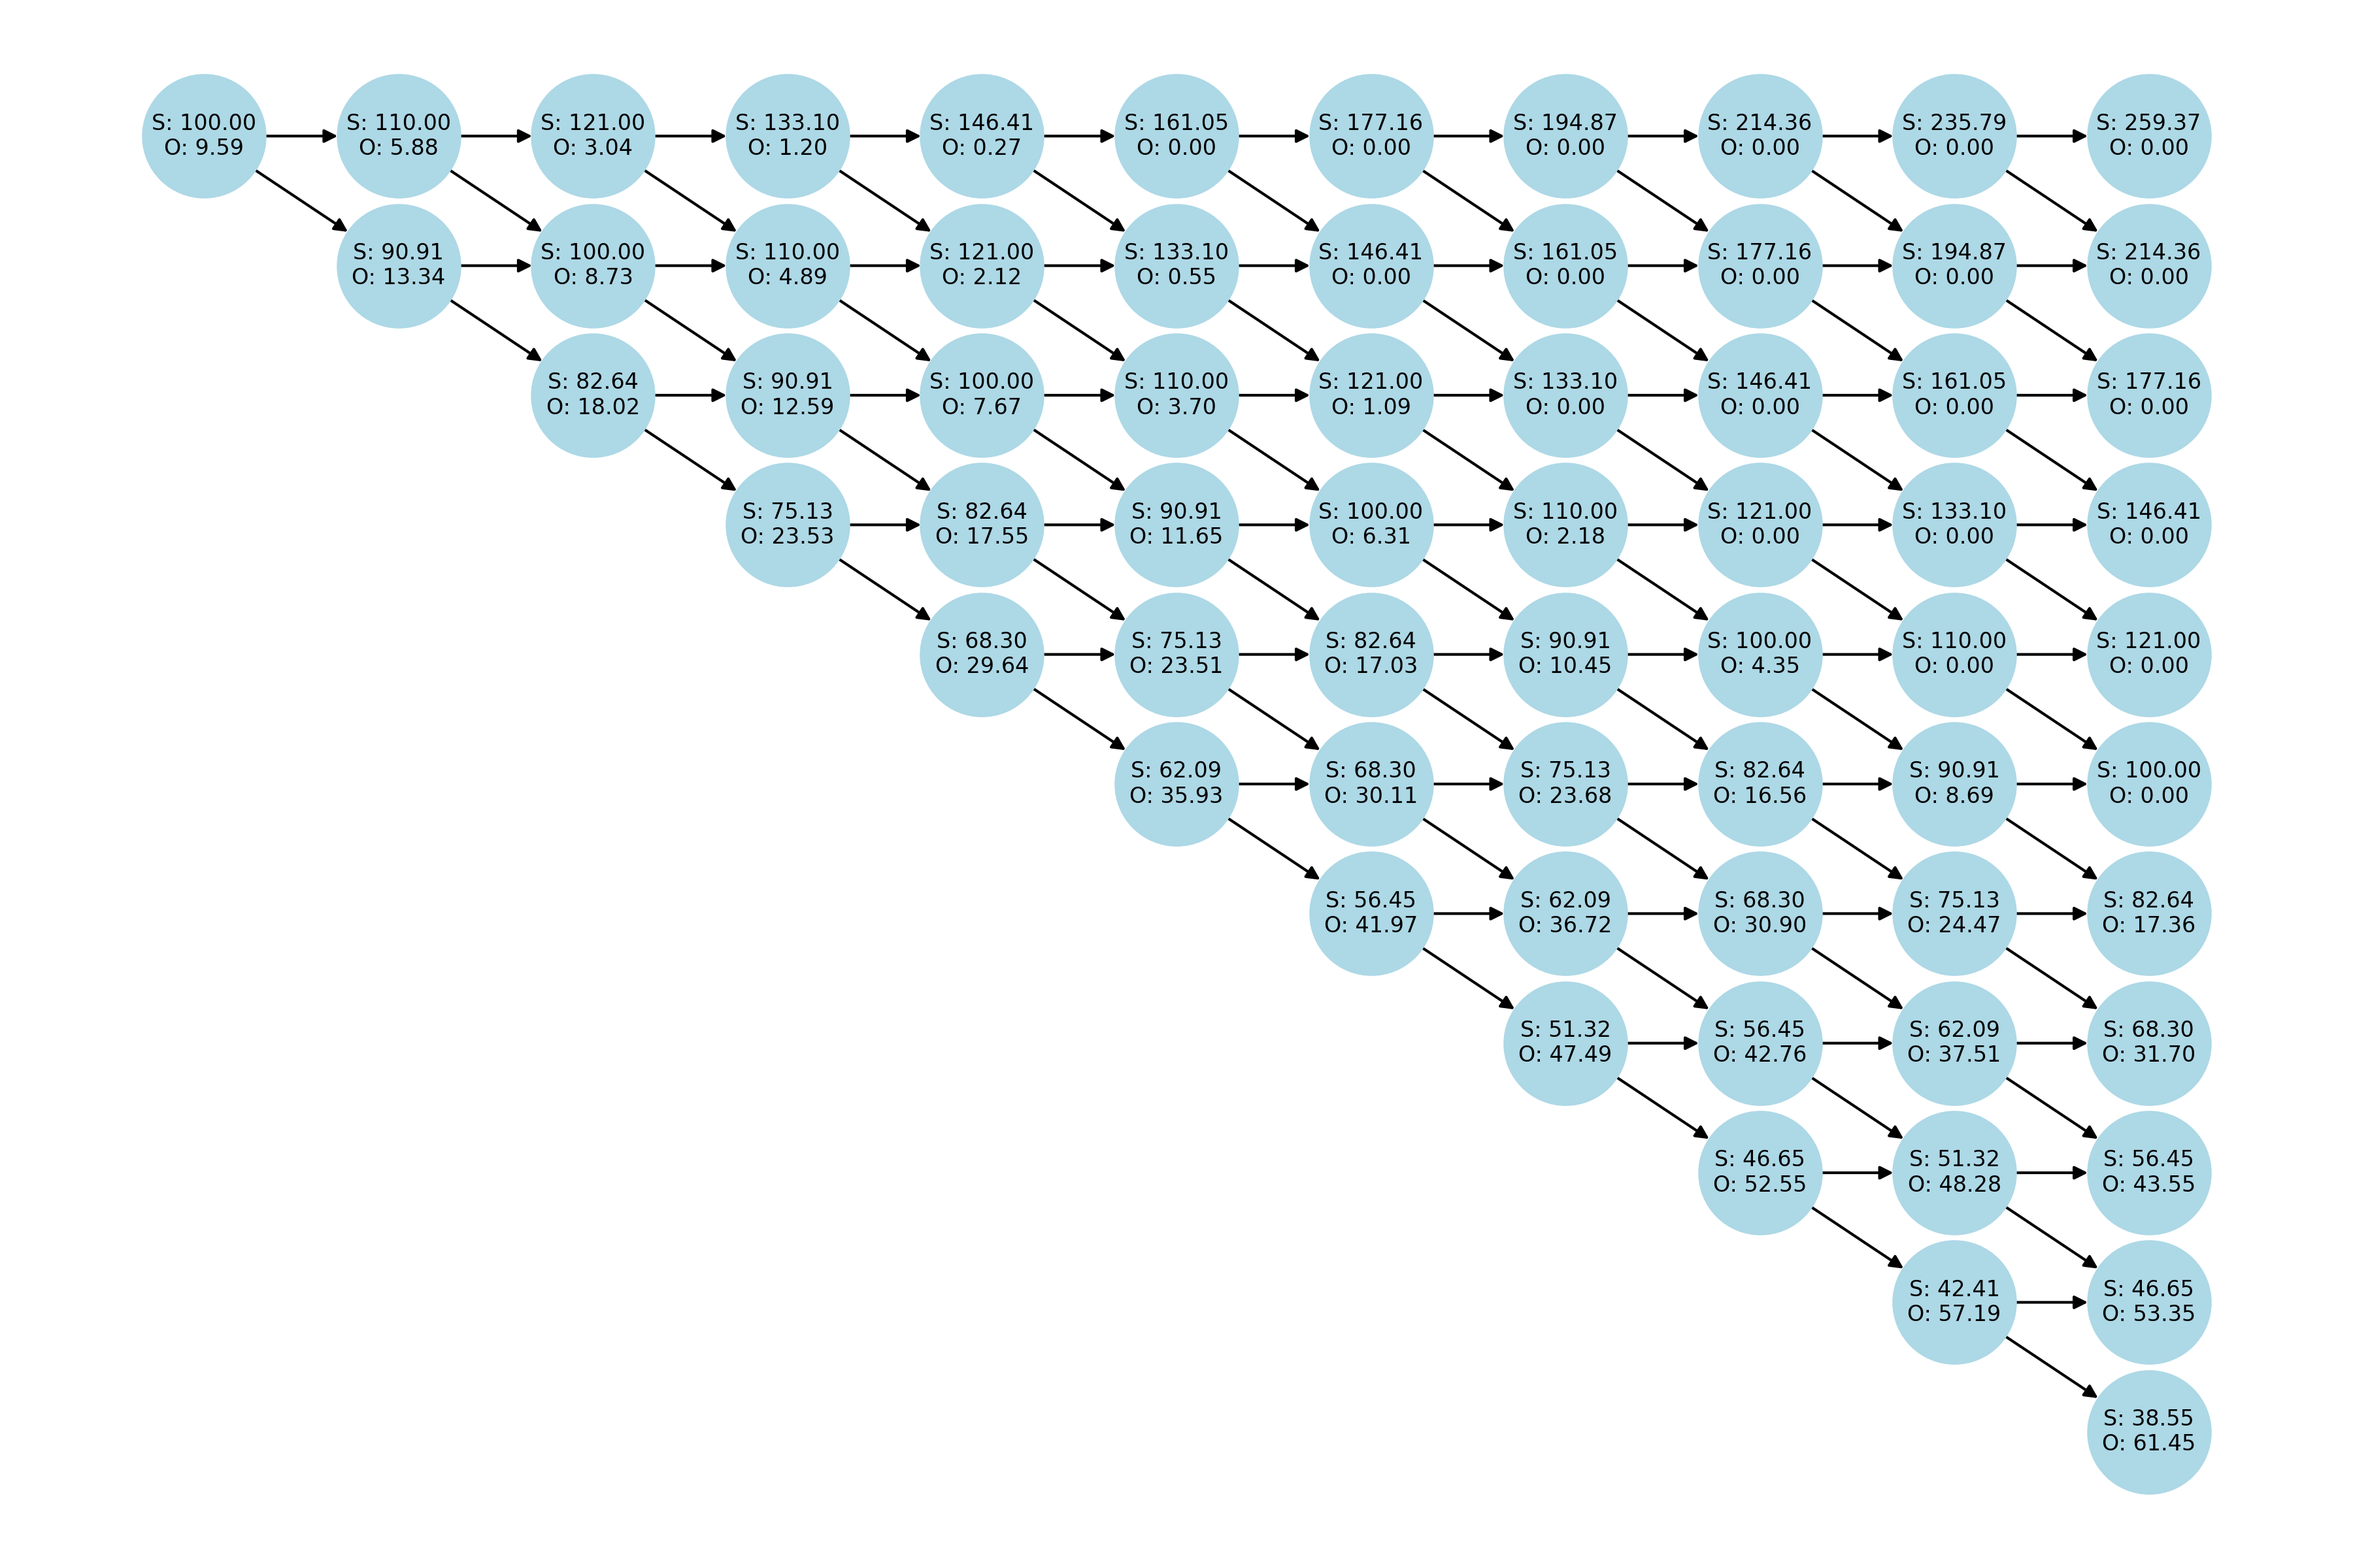
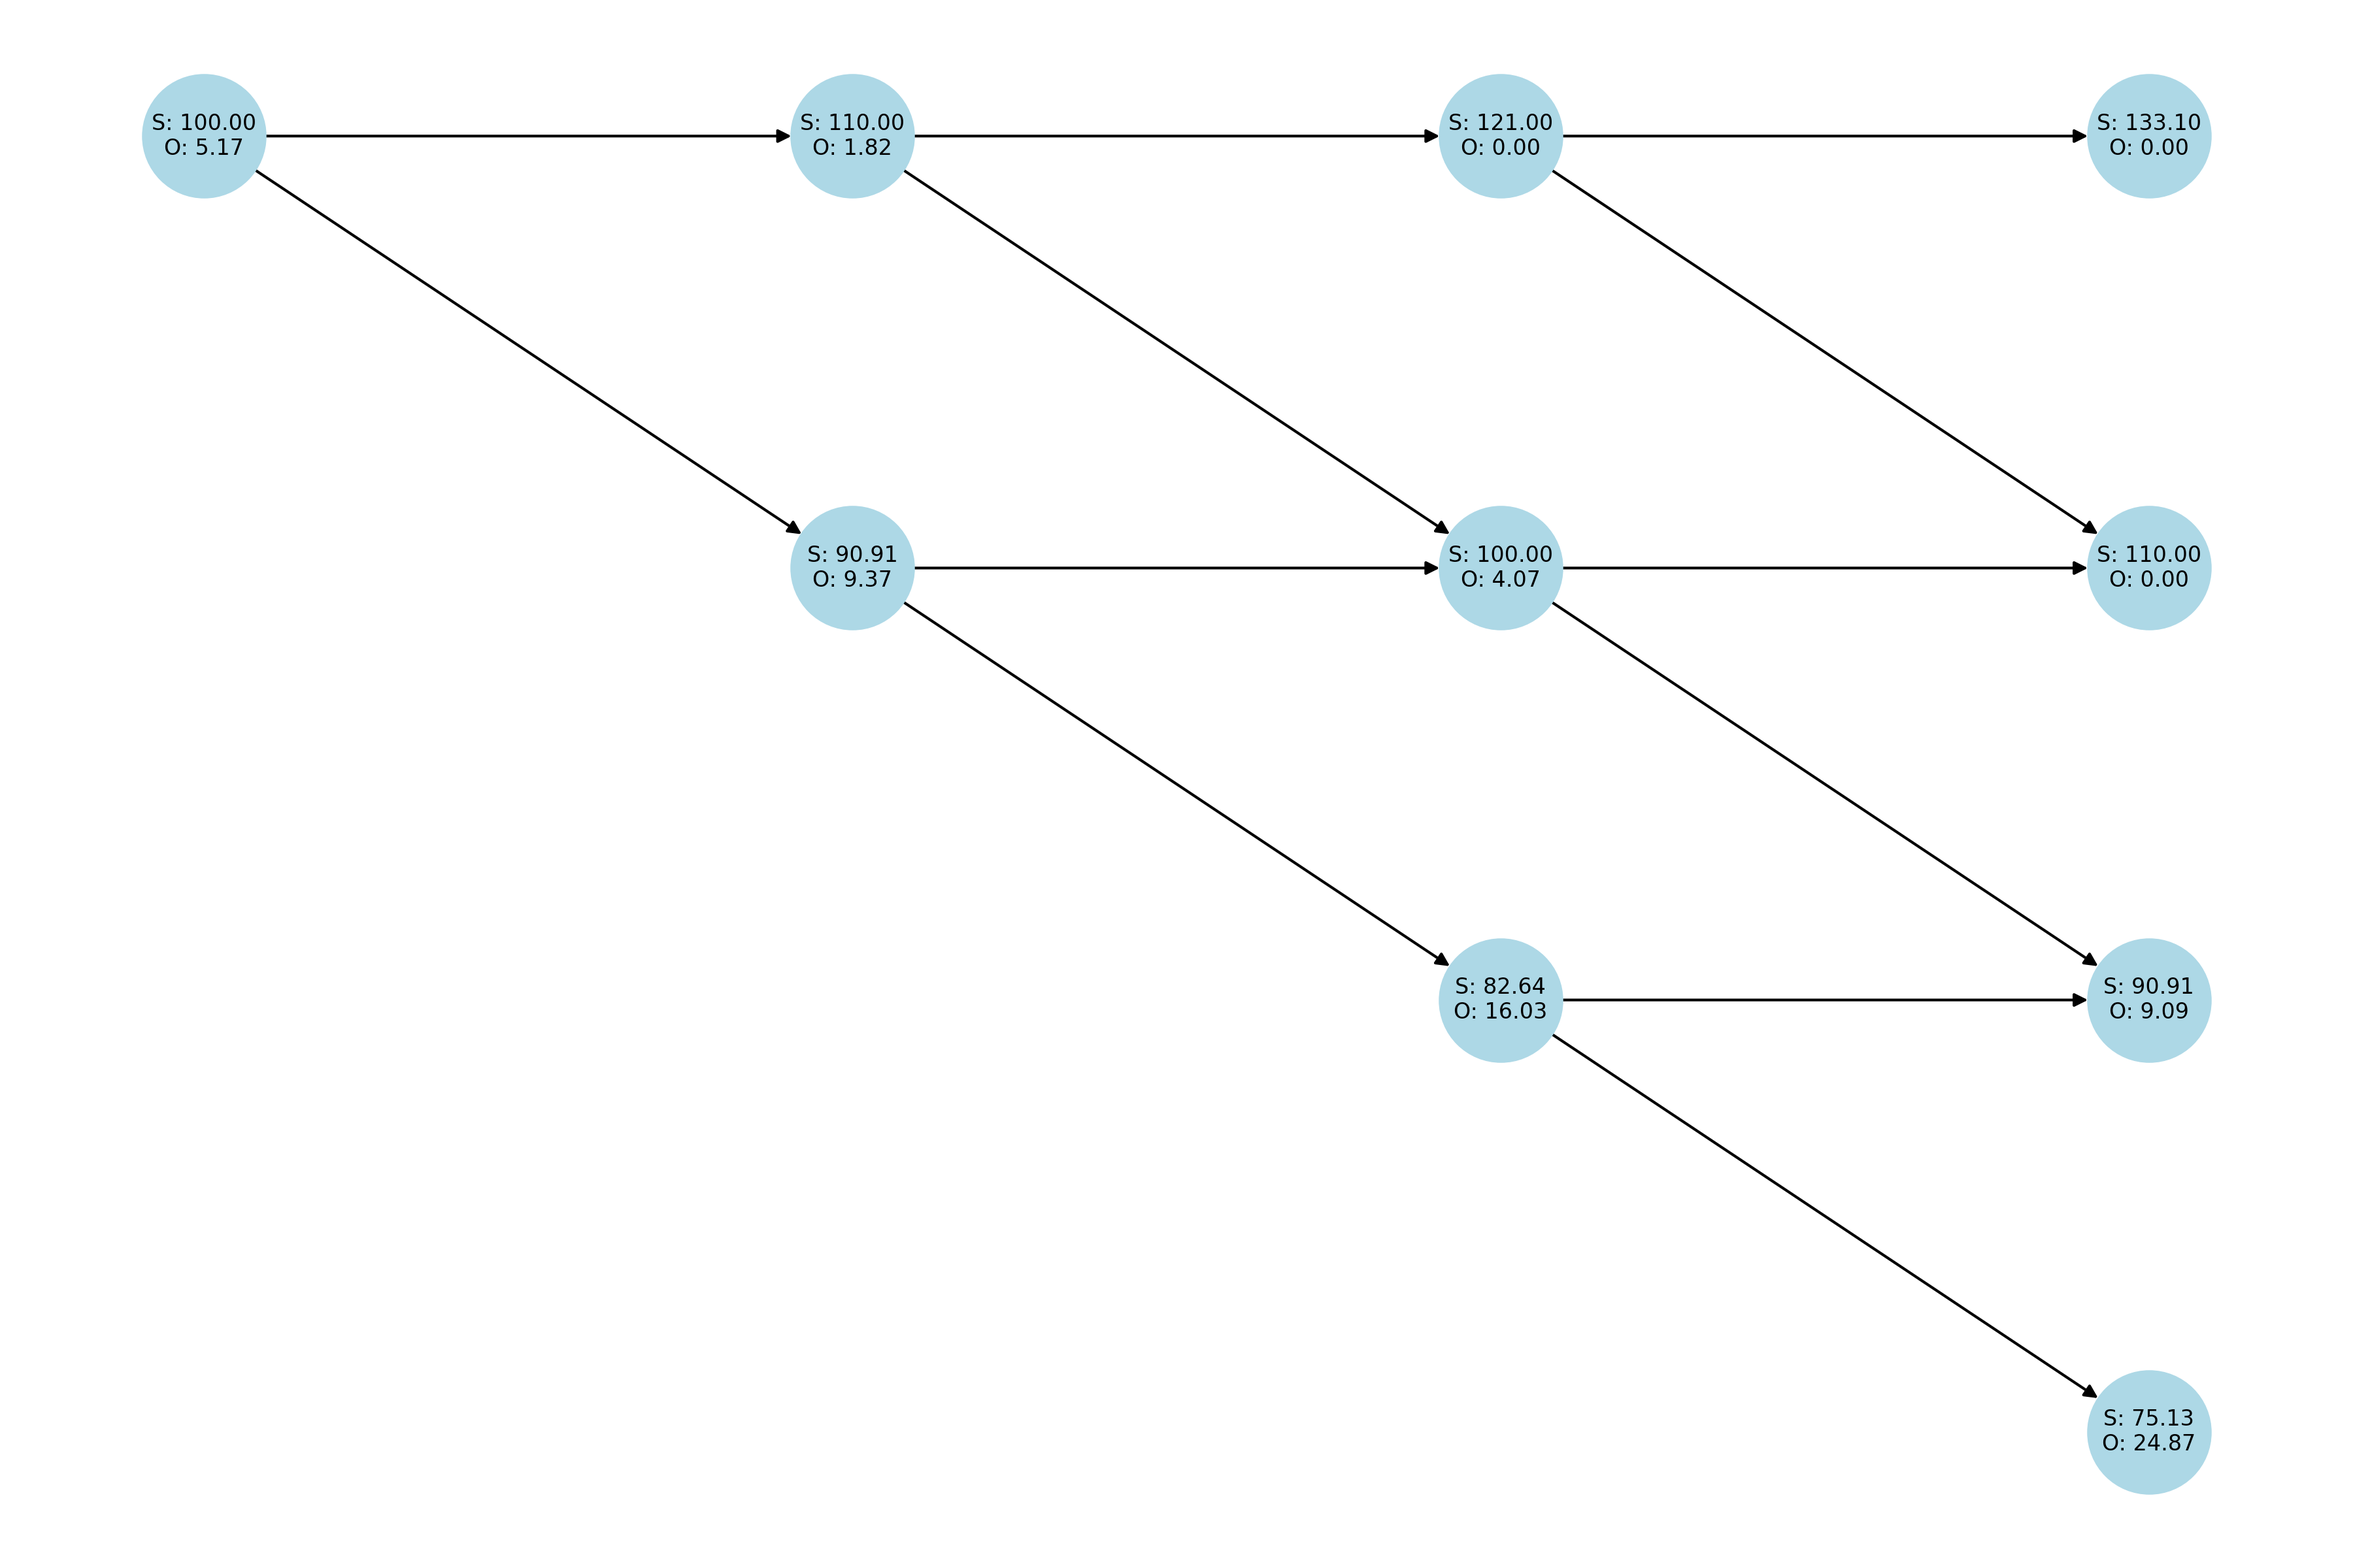
working

Changed region(s): [[0.1244, 0.0312, 0.9644, 0.875], [0.9022, 0.9062, 0.9333, 0.9375], [0.9022, 0.0625, 0.9333, 0.0938]]

diff --git a/fundamentals/test/test_binomial_option_pricing.py b/fundamentals/test/test_binomial_option_pricing.py
@@ -370,7 +370,7 @@ if __name__ == "__main__":
     S0 = 100          # Initial stock price
     K = 100           # Strike price
     r = 0.04          # Annual interest rate
-    N = 10             # Number of periods
+    N = 3             # Number of periods
     u = 1.1           # Up factor
     d = 1/u           # Down factor
     option_type = 'p' # Put option
